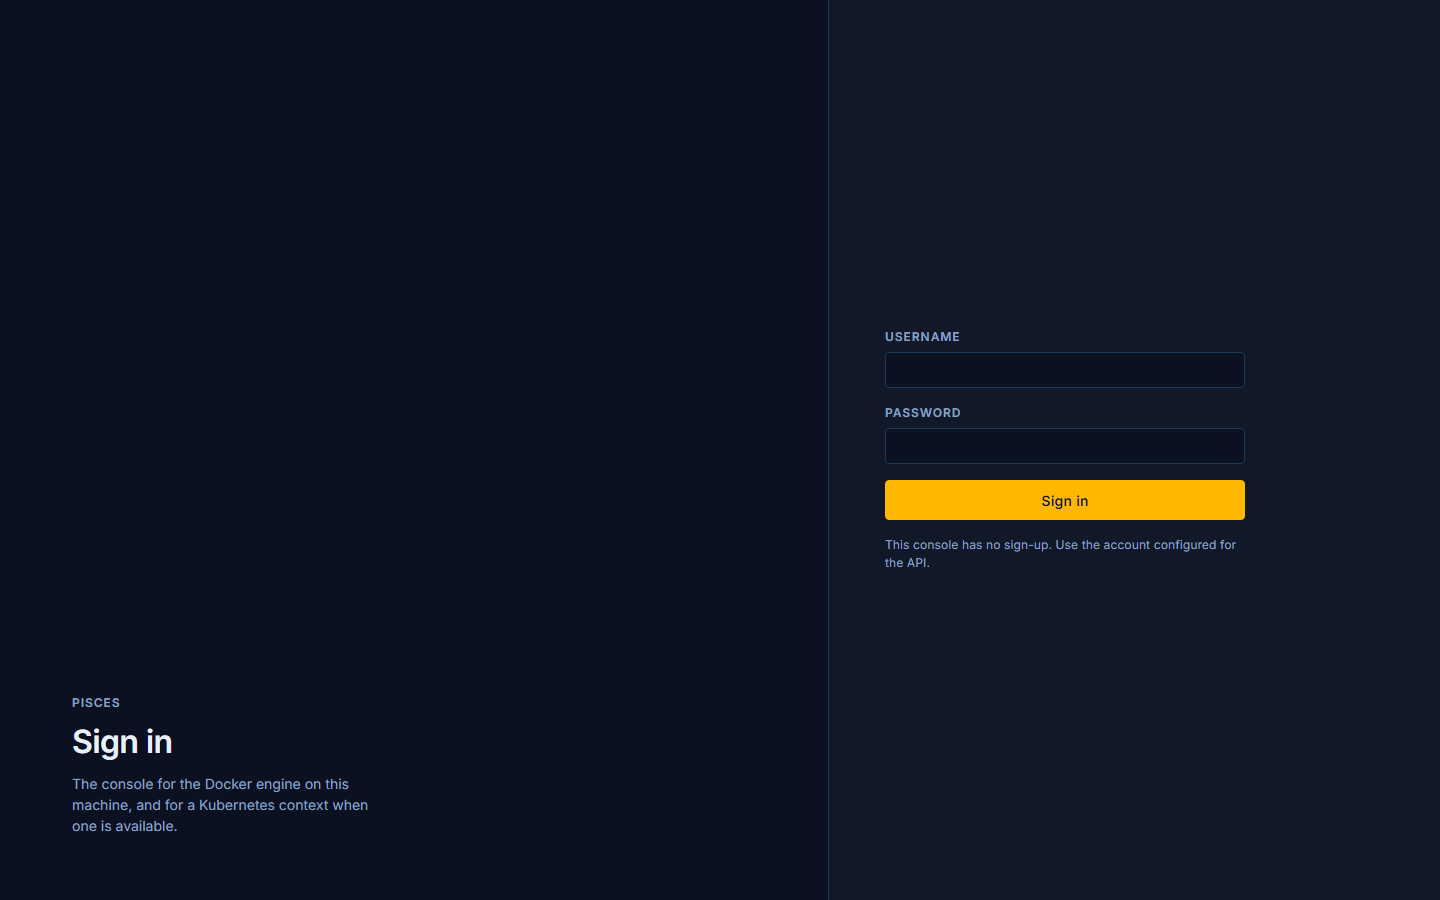
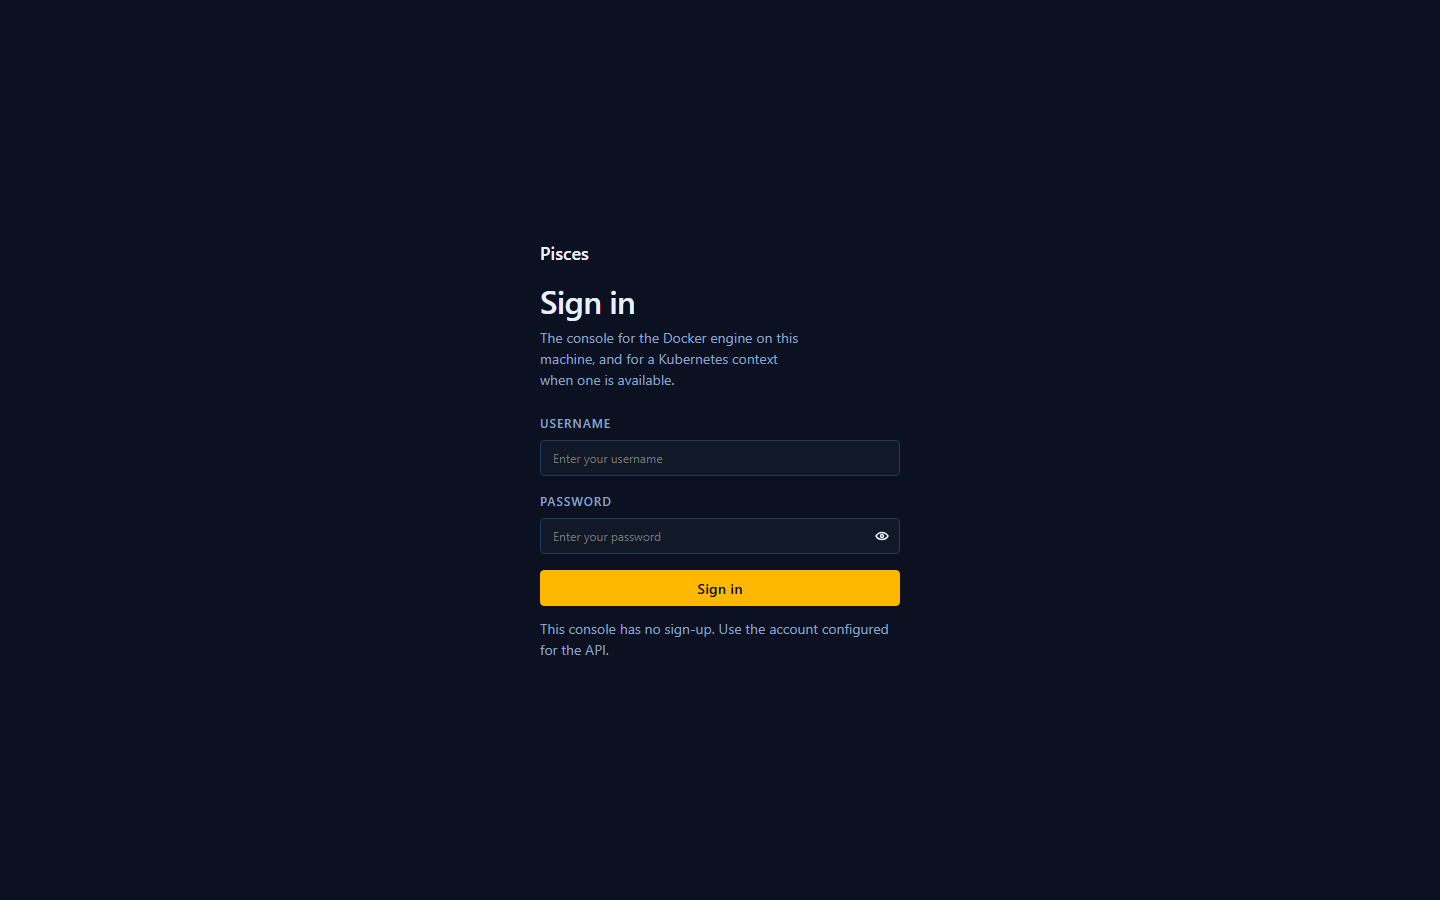
Swap README screenshots for the TELE-98 layout frames
Replace the four TELE-71 mockups with the approved TELE-98 frames:
01-login, 03-home-empty, 06-containers, 07-container-detail. Captions
follow those frames, and the README no longer claims the screens exist
in the current build, since TELE-99 has not merged. The app icon is
unchanged.

diff --git a/README.md b/README.md
@@ -14,20 +14,19 @@ placeholder, and the only Kubernetes thing that works is saving a context.
 
 ## Screens
 
-Screens from the UI/UX pass. Every screen below exists in the current Docker build;
-nothing Kubernetes is shown because nothing Kubernetes is implemented.
+Screens from the approved UI/UX layout.
 
 ![Sign in](docs/images/screenshots/01-login.png)
 *Sign in — one operator account, configured on the container, no sign-up.*
 
-![No endpoint yet](docs/images/screenshots/02-no-endpoint.png)
-*No endpoint yet — add this machine's Docker engine before the console opens.*
+![Home with no endpoint](docs/images/screenshots/03-home-empty.png)
+*Home with no endpoint yet — add this machine's Docker engine, or save a Kubernetes context.*
 
-![Containers](docs/images/screenshots/03-containers.png)
-*Containers — state, ports, and start/stop/restart/remove per container.*
+![Containers](docs/images/screenshots/06-containers.png)
+*Containers — state, image, created, and ports, with start/stop/restart/remove.*
 
-![Container detail](docs/images/screenshots/04-container-detail.png)
-*Container detail — inspect fields and the live log tail.*
+![Container detail](docs/images/screenshots/07-container-detail.png)
+*Container detail — actions, status, and the inspect fields.*
 
 The mark in the README is the app icon: `frontend/app/icon.svg` is the source, and the same
 art is wired as the favicon, the Apple touch icon, and the 192/512 icons in the web app
